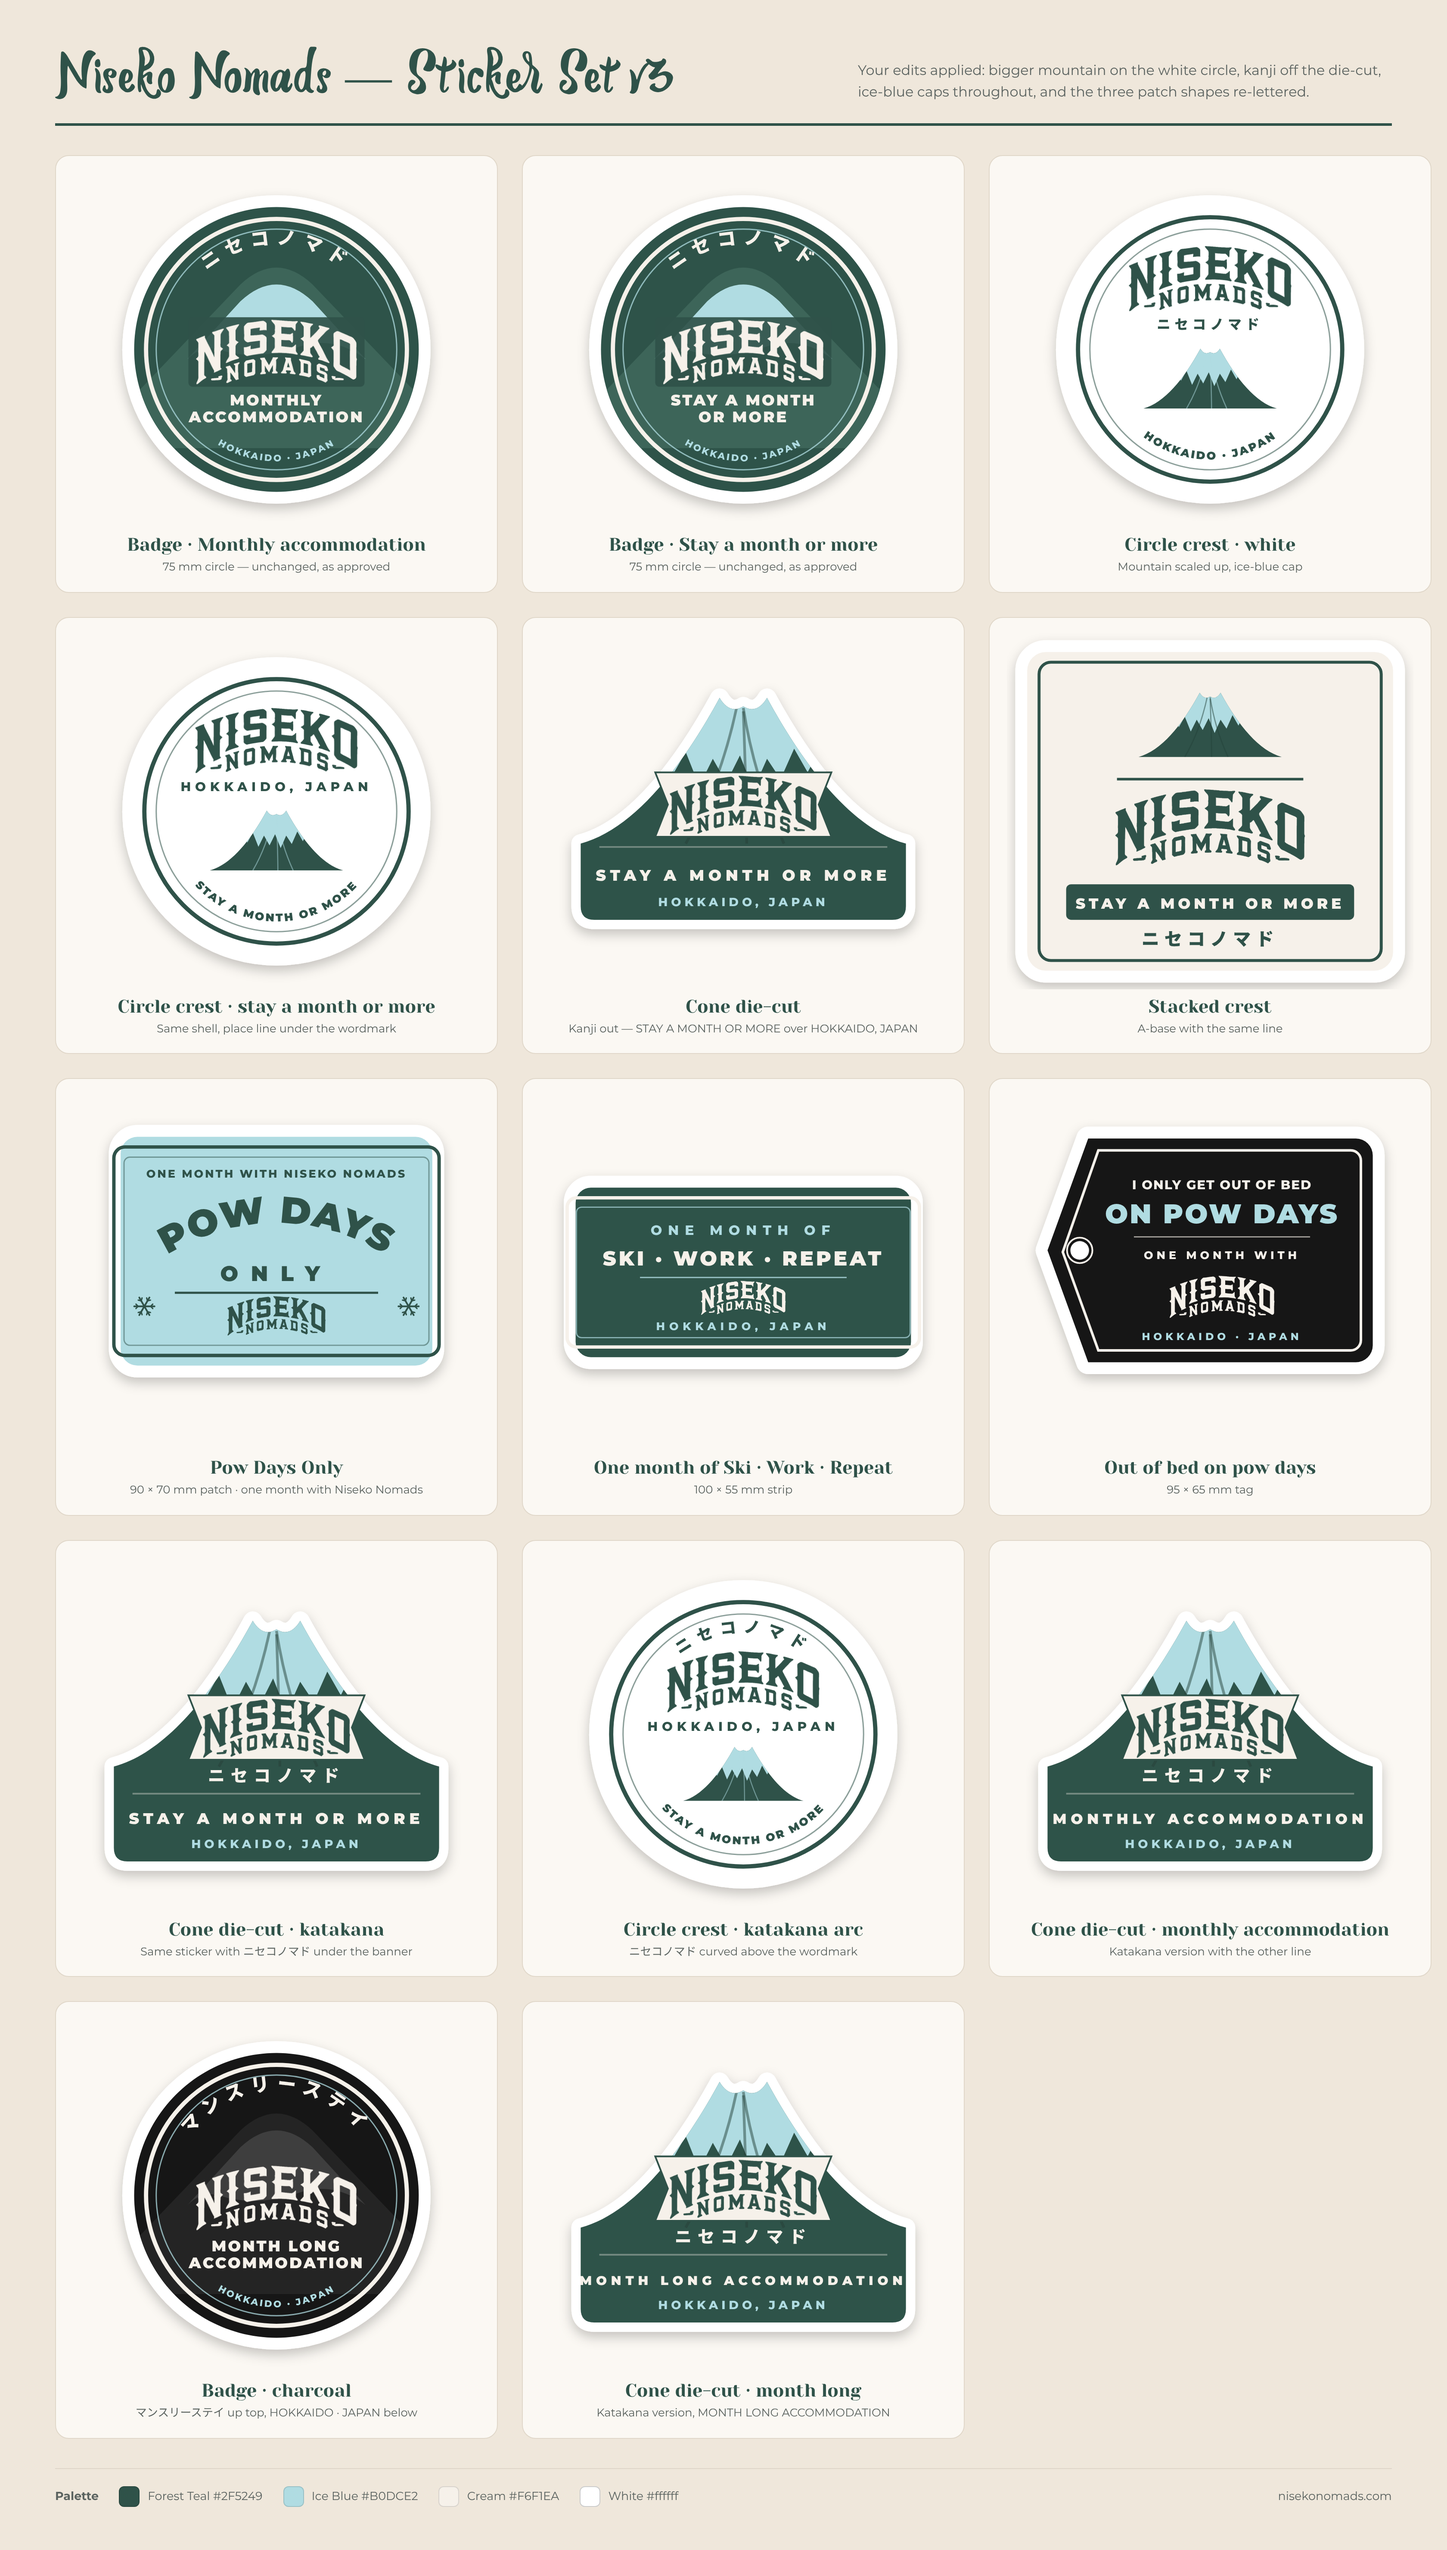
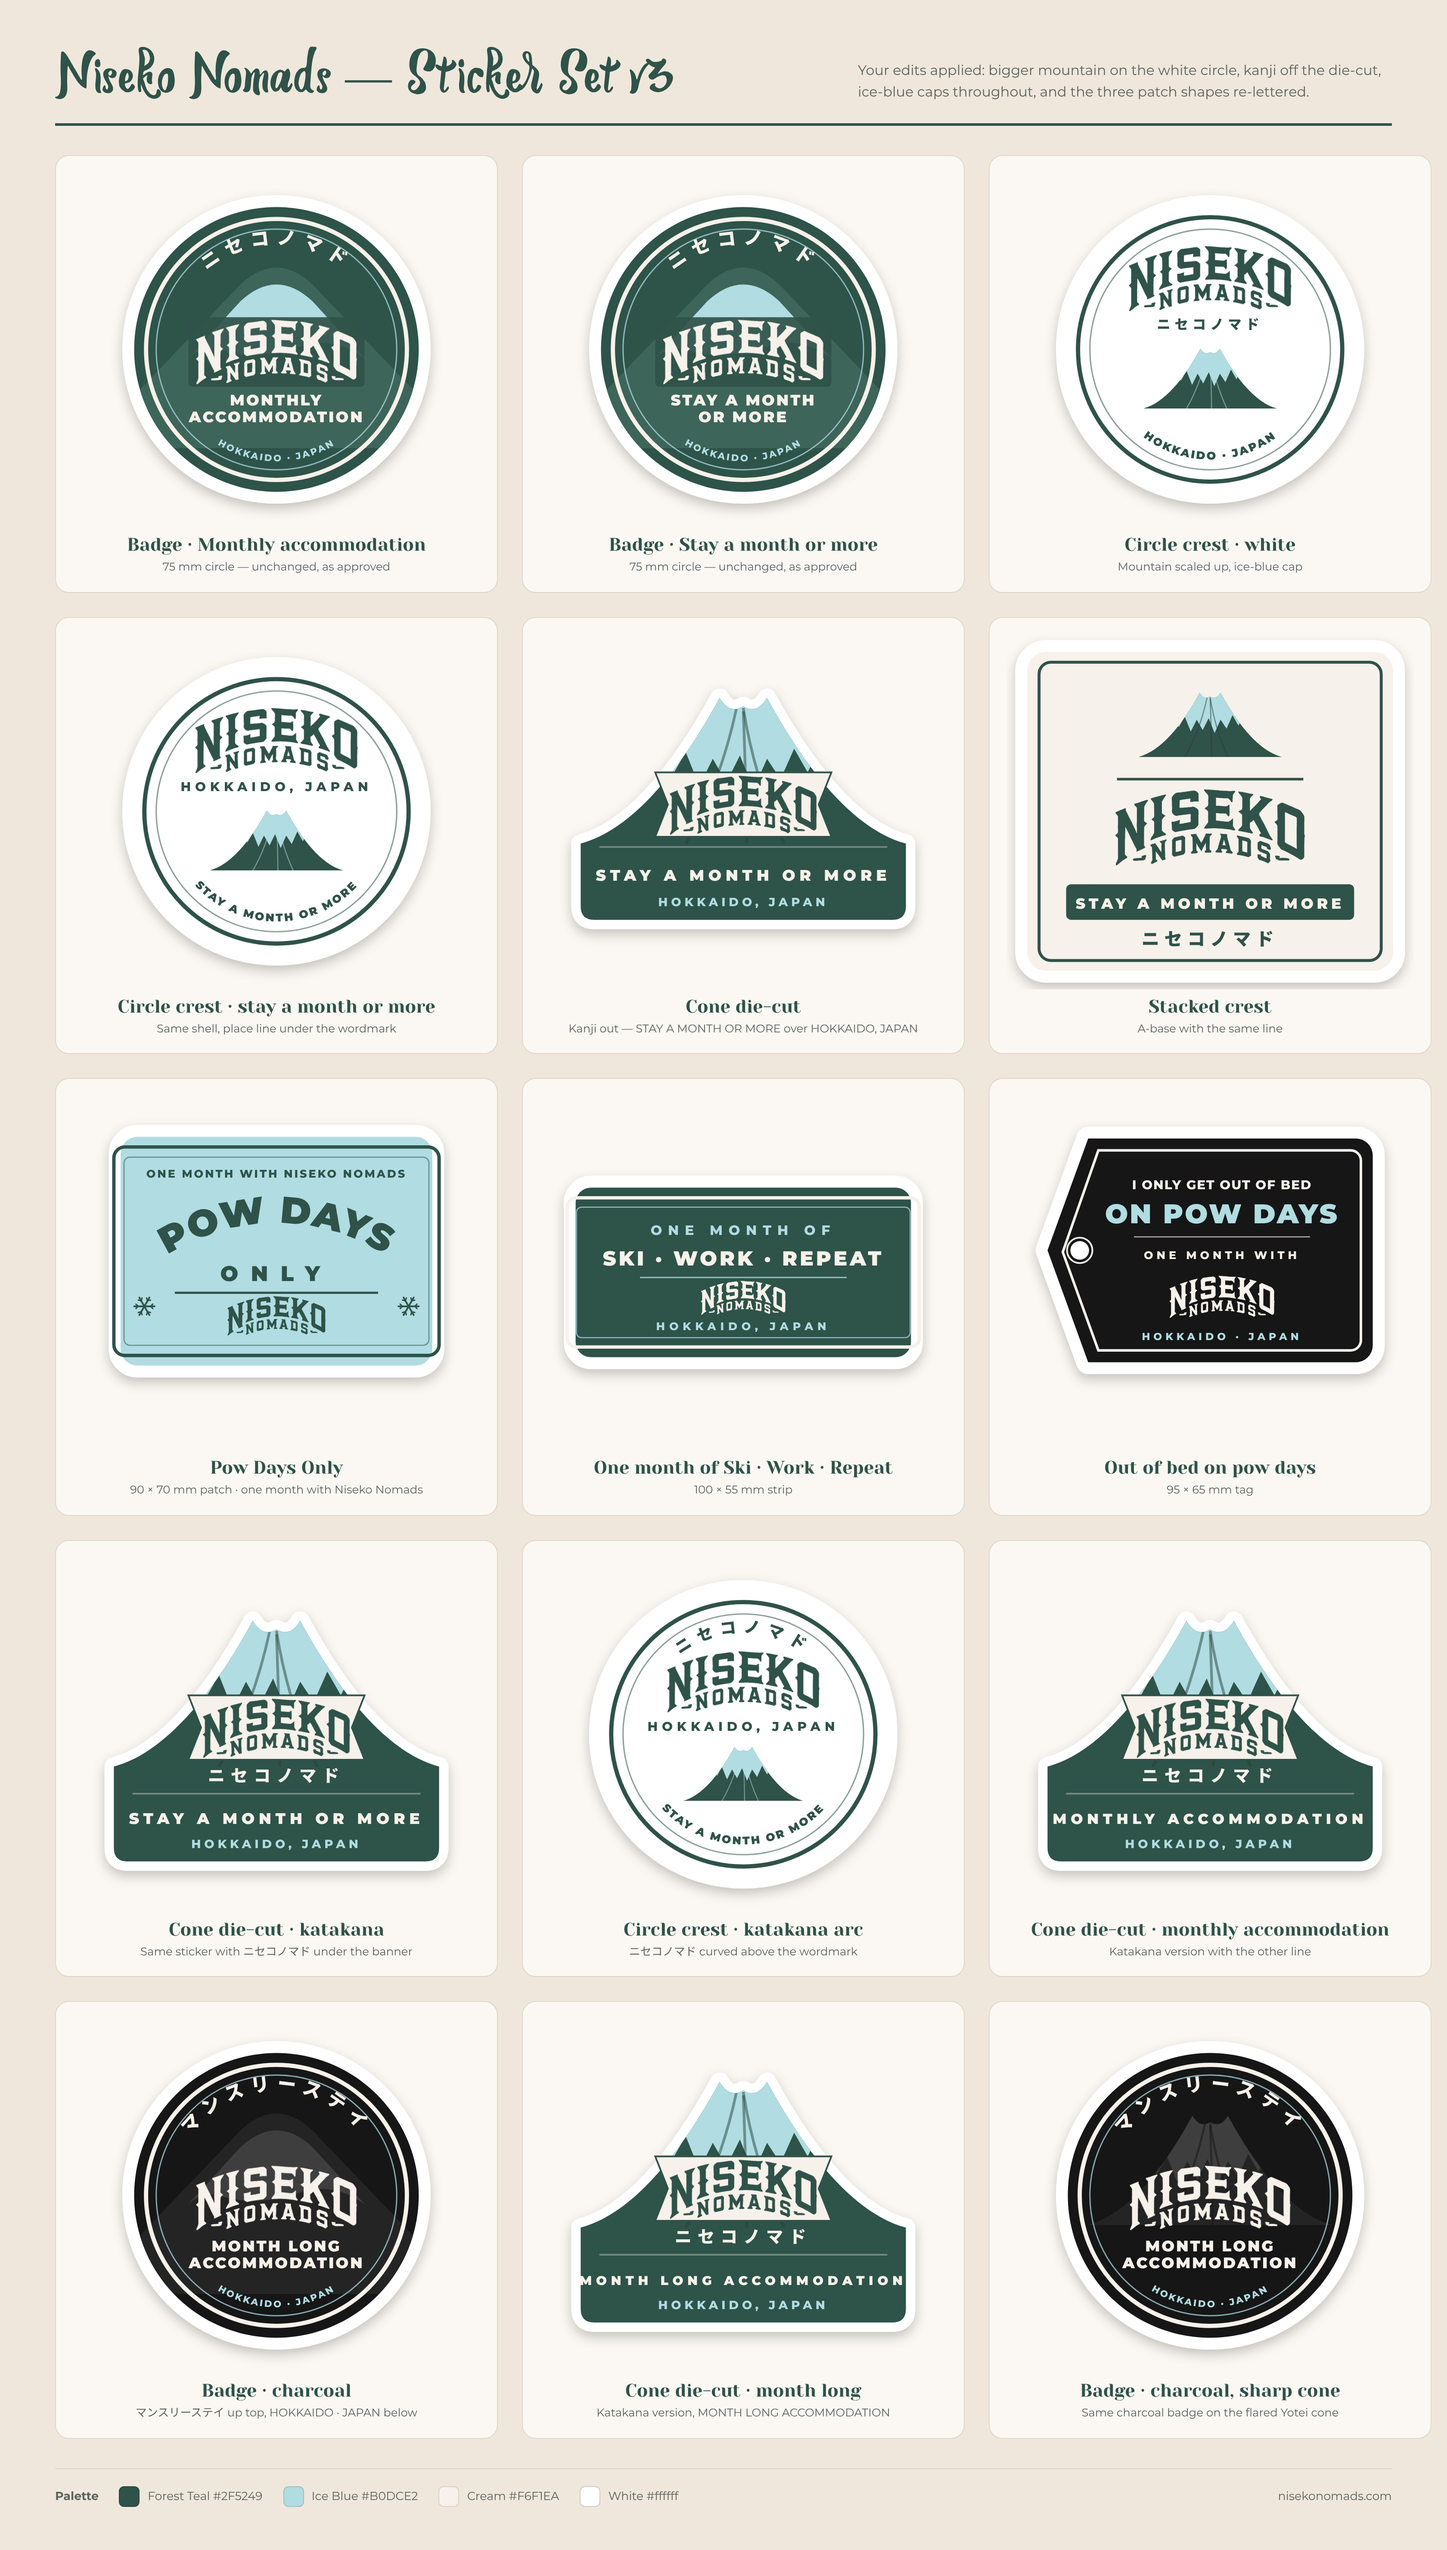
Add charcoal badge on the sharp flared cone

Changed region(s): [[0.7188, 0.7773, 0.9688, 0.9638]]

diff --git a/index.html b/index.html
@@ -123,6 +123,7 @@ const STICKERS = [
   ['12-cone-die-cut-monthly','Cone die-cut · monthly accommodation','Katakana version with the other line'],
   ['13-badge-charcoal','Badge · charcoal','マンスリーステイ up top, HOKKAIDO · JAPAN below'],
   ['14-cone-die-cut-month-long','Cone die-cut · month long','Katakana version, MONTH LONG ACCOMMODATION'],
+  ['15-badge-charcoal-cone','Badge · charcoal, sharp cone','Same badge on the flared Yotei cone, not the rounded one'],
 ];
 const SHEETS = [
   ['stickers6','All nine together','The full set on one sheet'],
